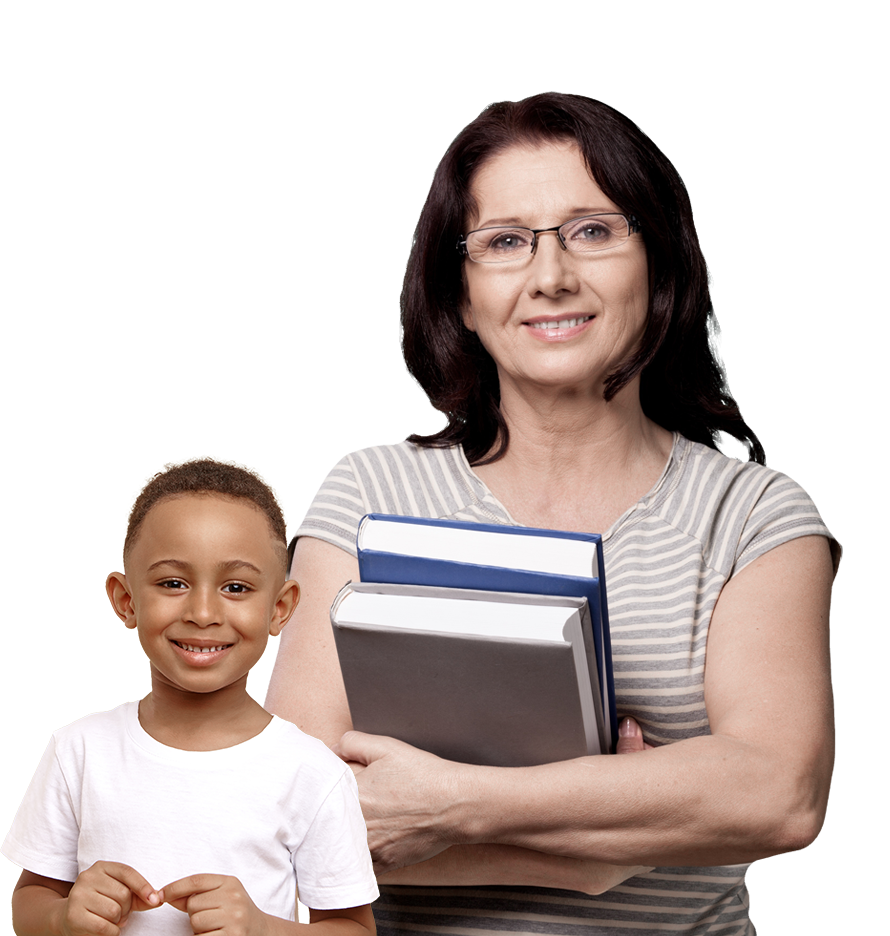
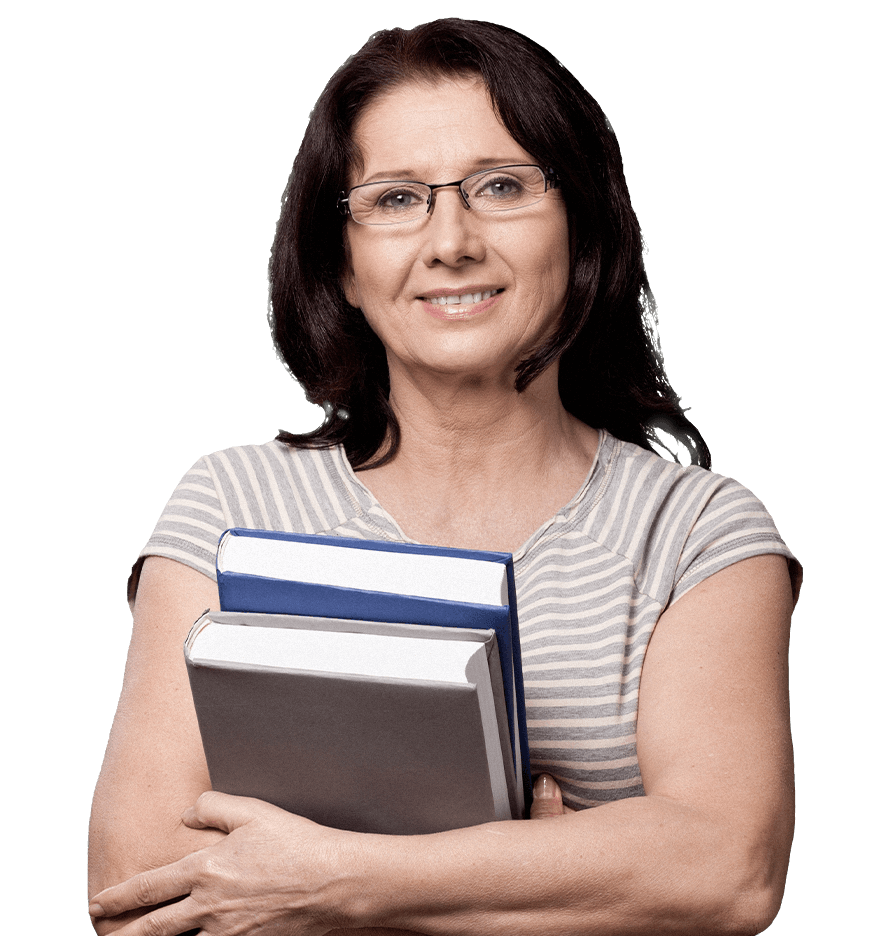
Autocadastro; versão 1 da nova área de inserir código de cadastro

diff --git a/app/styles/layout/self-registration.scss b/app/styles/layout/self-registration.scss
@@ -46,9 +46,21 @@
     @include media('>md') {
       bottom: 0;
       display: block;
-      max-width: 42vw;
+      max-width: 50vw;
       position: absolute;
       right: -5%;
+      transform: scale(.9);
+      transform-origin: center bottom;
+      transition: 400ms ease-in-out;
+    }
+
+    &--is-fade {
+      filter: grayscale(.75) blur(1px);
+    }
+
+    &--is-highlight {
+      filter: saturate(1.25);
+      transform: scale(.95);
     }
 
   }
